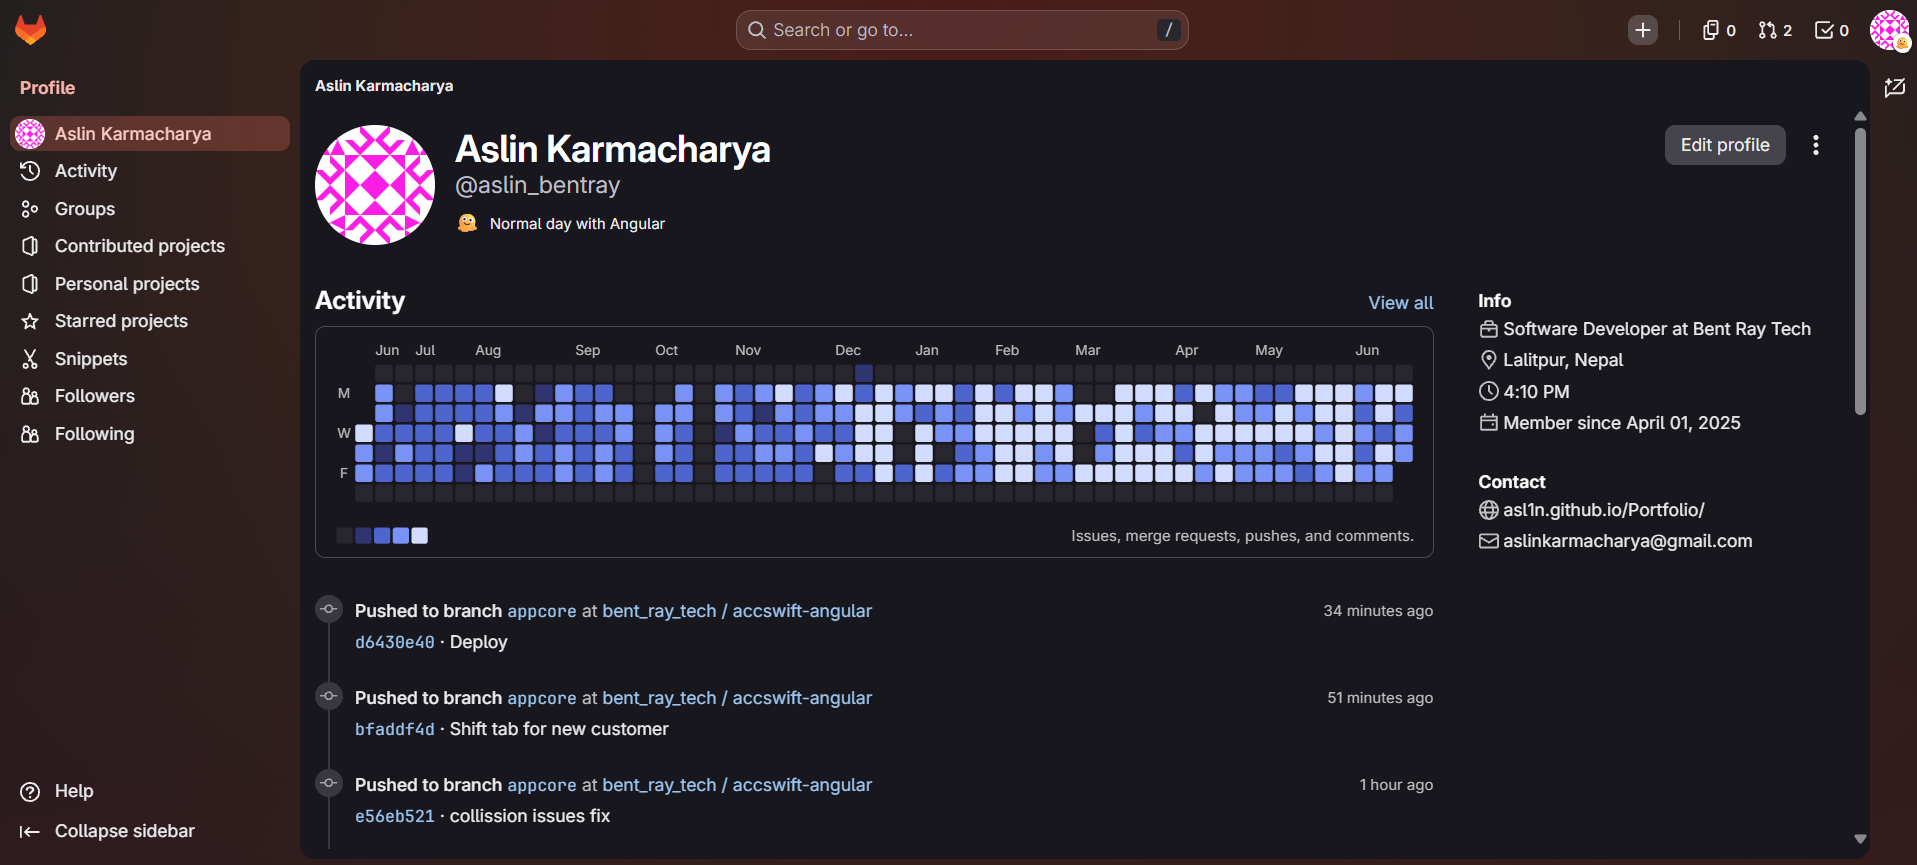
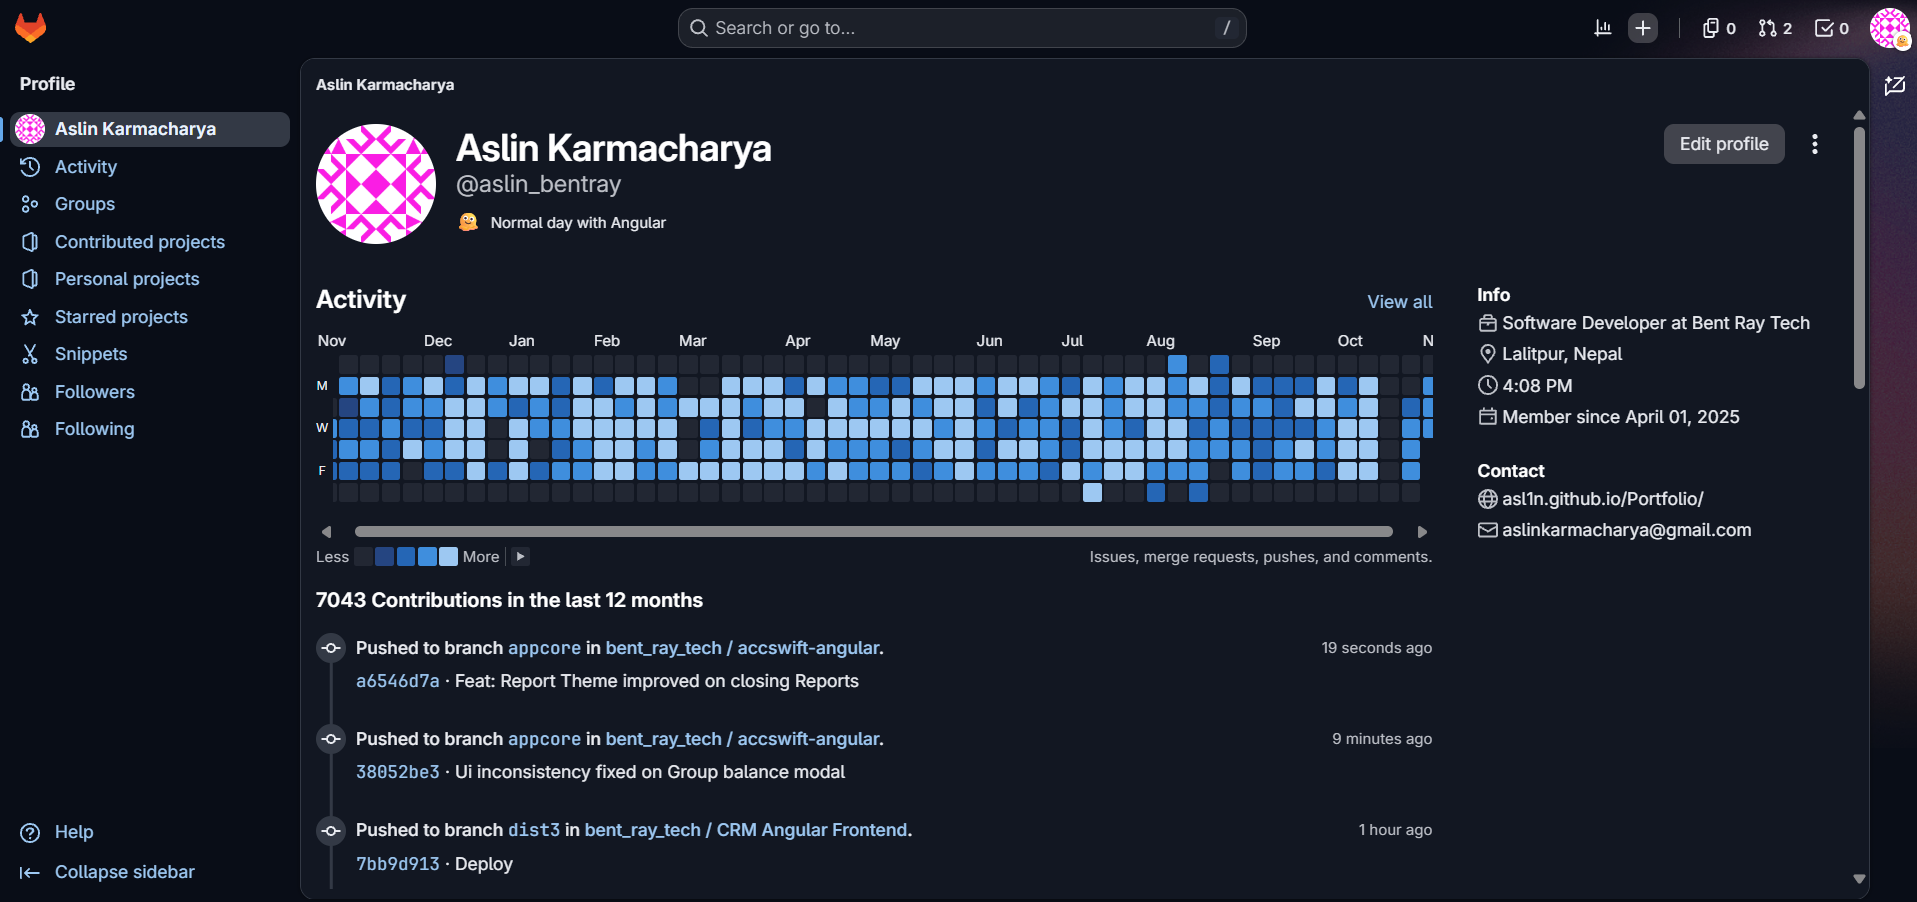
Contribution data updated display

diff --git a/js/gallery-data.js b/js/gallery-data.js
@@ -12,27 +12,27 @@
    ────────────────────────────────────────────────────────────────── */
 window.PROJECT_GALLERIES = {
   office: {
-    heading: "Office Project — Contributor Analytics",
+    heading: "Project — Contributor Analytics",
     slides: [
       {
         title: "Accounting Software",
-        text: "Contributor analytics for the Accounting module.",
-        src: "image/git-commits.png",
+        text: "Contributor analytics for the Accounting Software.",
+        src: "image/accounting-contribution.png",
       },
       {
-        title: "CRM",
-        text: "Contributor analytics for the CRM module.",
-        src: "image/git-commits.png",
+        title: "Dynamic Websites",
+        text: "Contributor analytics for the Dynamic Websites.",
+        src: "image/dynamic-websites.png",
       },
       {
-        title: "Inventory Management",
-        text: "Contributor analytics for the Inventory module.",
-        src: "image/git-commits.png",
+        title: "Tender Management",
+        text: "Contributor analytics for the Tender Management module.",
+        src: "image/tender-software.png",
       },
       {
-        title: "Billing & Invoicing",
-        text: "Contributor analytics for the Billing module.",
-        src: "image/git-commits.png",
+        title: "Fleet Management",
+        text: "Contributor analytics for the Fleet Management module.",
+        src: "image/fleet-management.png",
       },
     ],
   },
